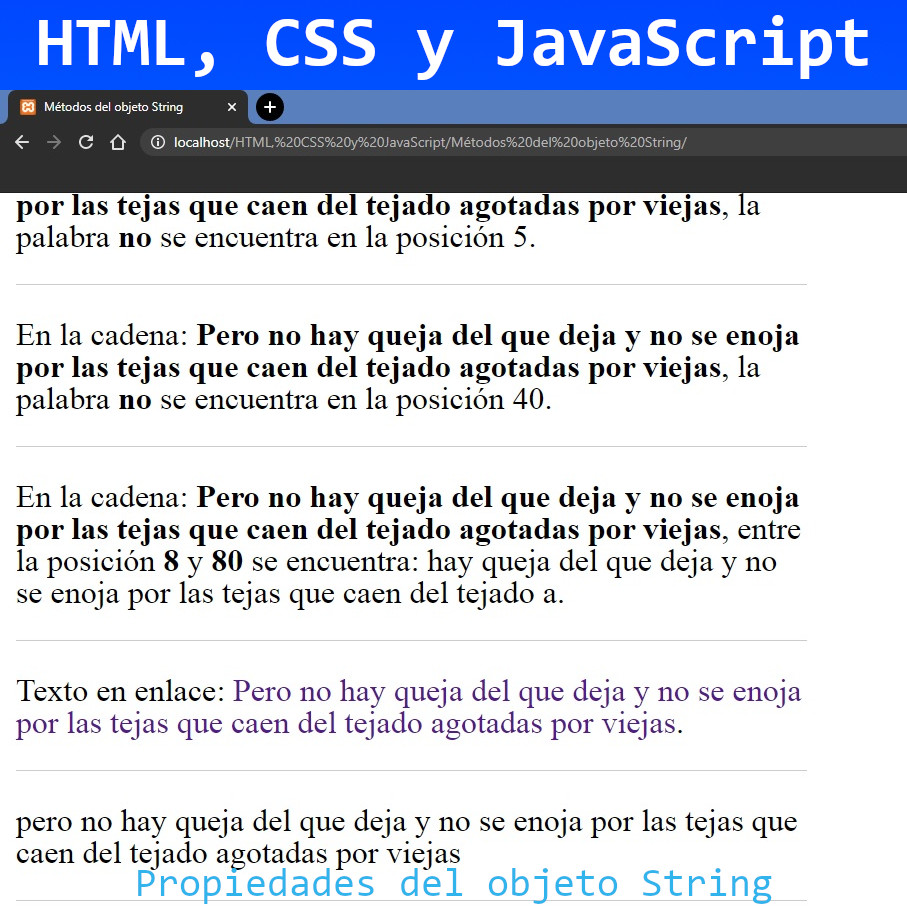
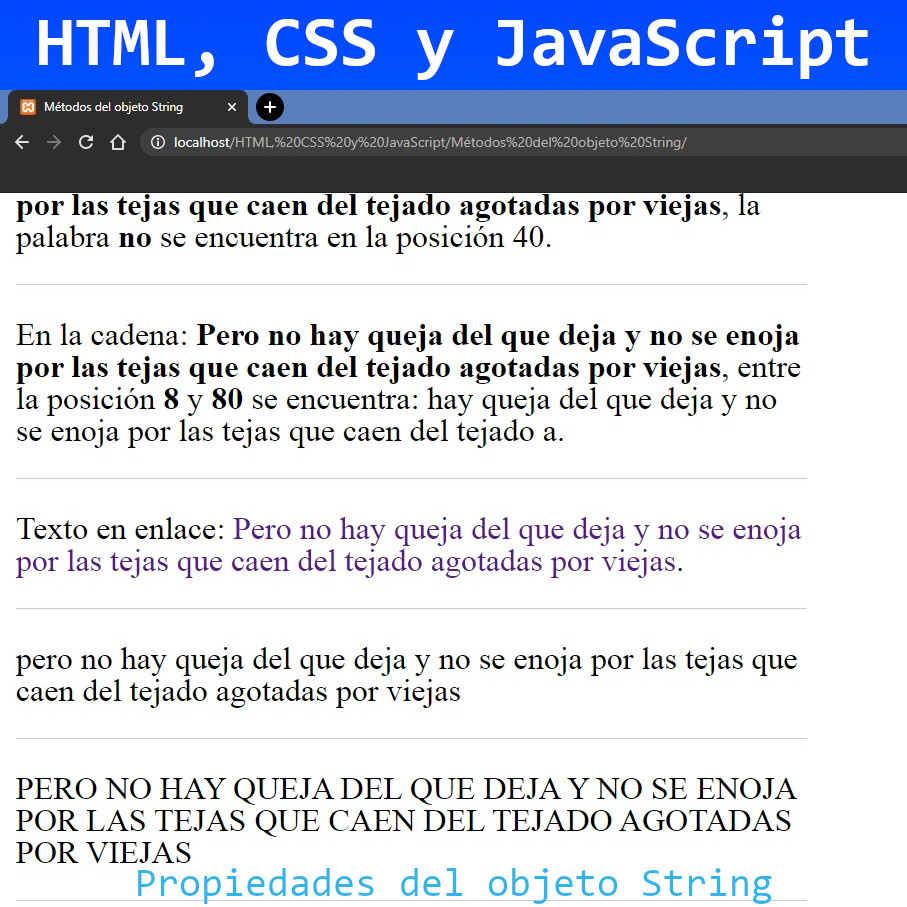
Métodos del objeto String
Métodos del objeto String en JavaScript

diff --git a/HTML, CSS y JavaScript/Métodos del objeto String/js/funciones.js b/HTML, CSS y JavaScript/Métodos del objeto String/js/funciones.js
@@ -35,3 +35,10 @@ var min = cadena.toLowerCase();
 document.write(min);
 // SALTO DE LÍNEA
 document.write("<hr>");
+// MOSTRAR TEXTO MAYÚSCULAS
+// convierte todas las letras de la cadena en mayúsculas
+var may = cadena.toUpperCase();
+// MOSTRAR EN PANTALLA
+document.write(may);
+// SALTO DE LÍNEA
+document.write("<hr>");
